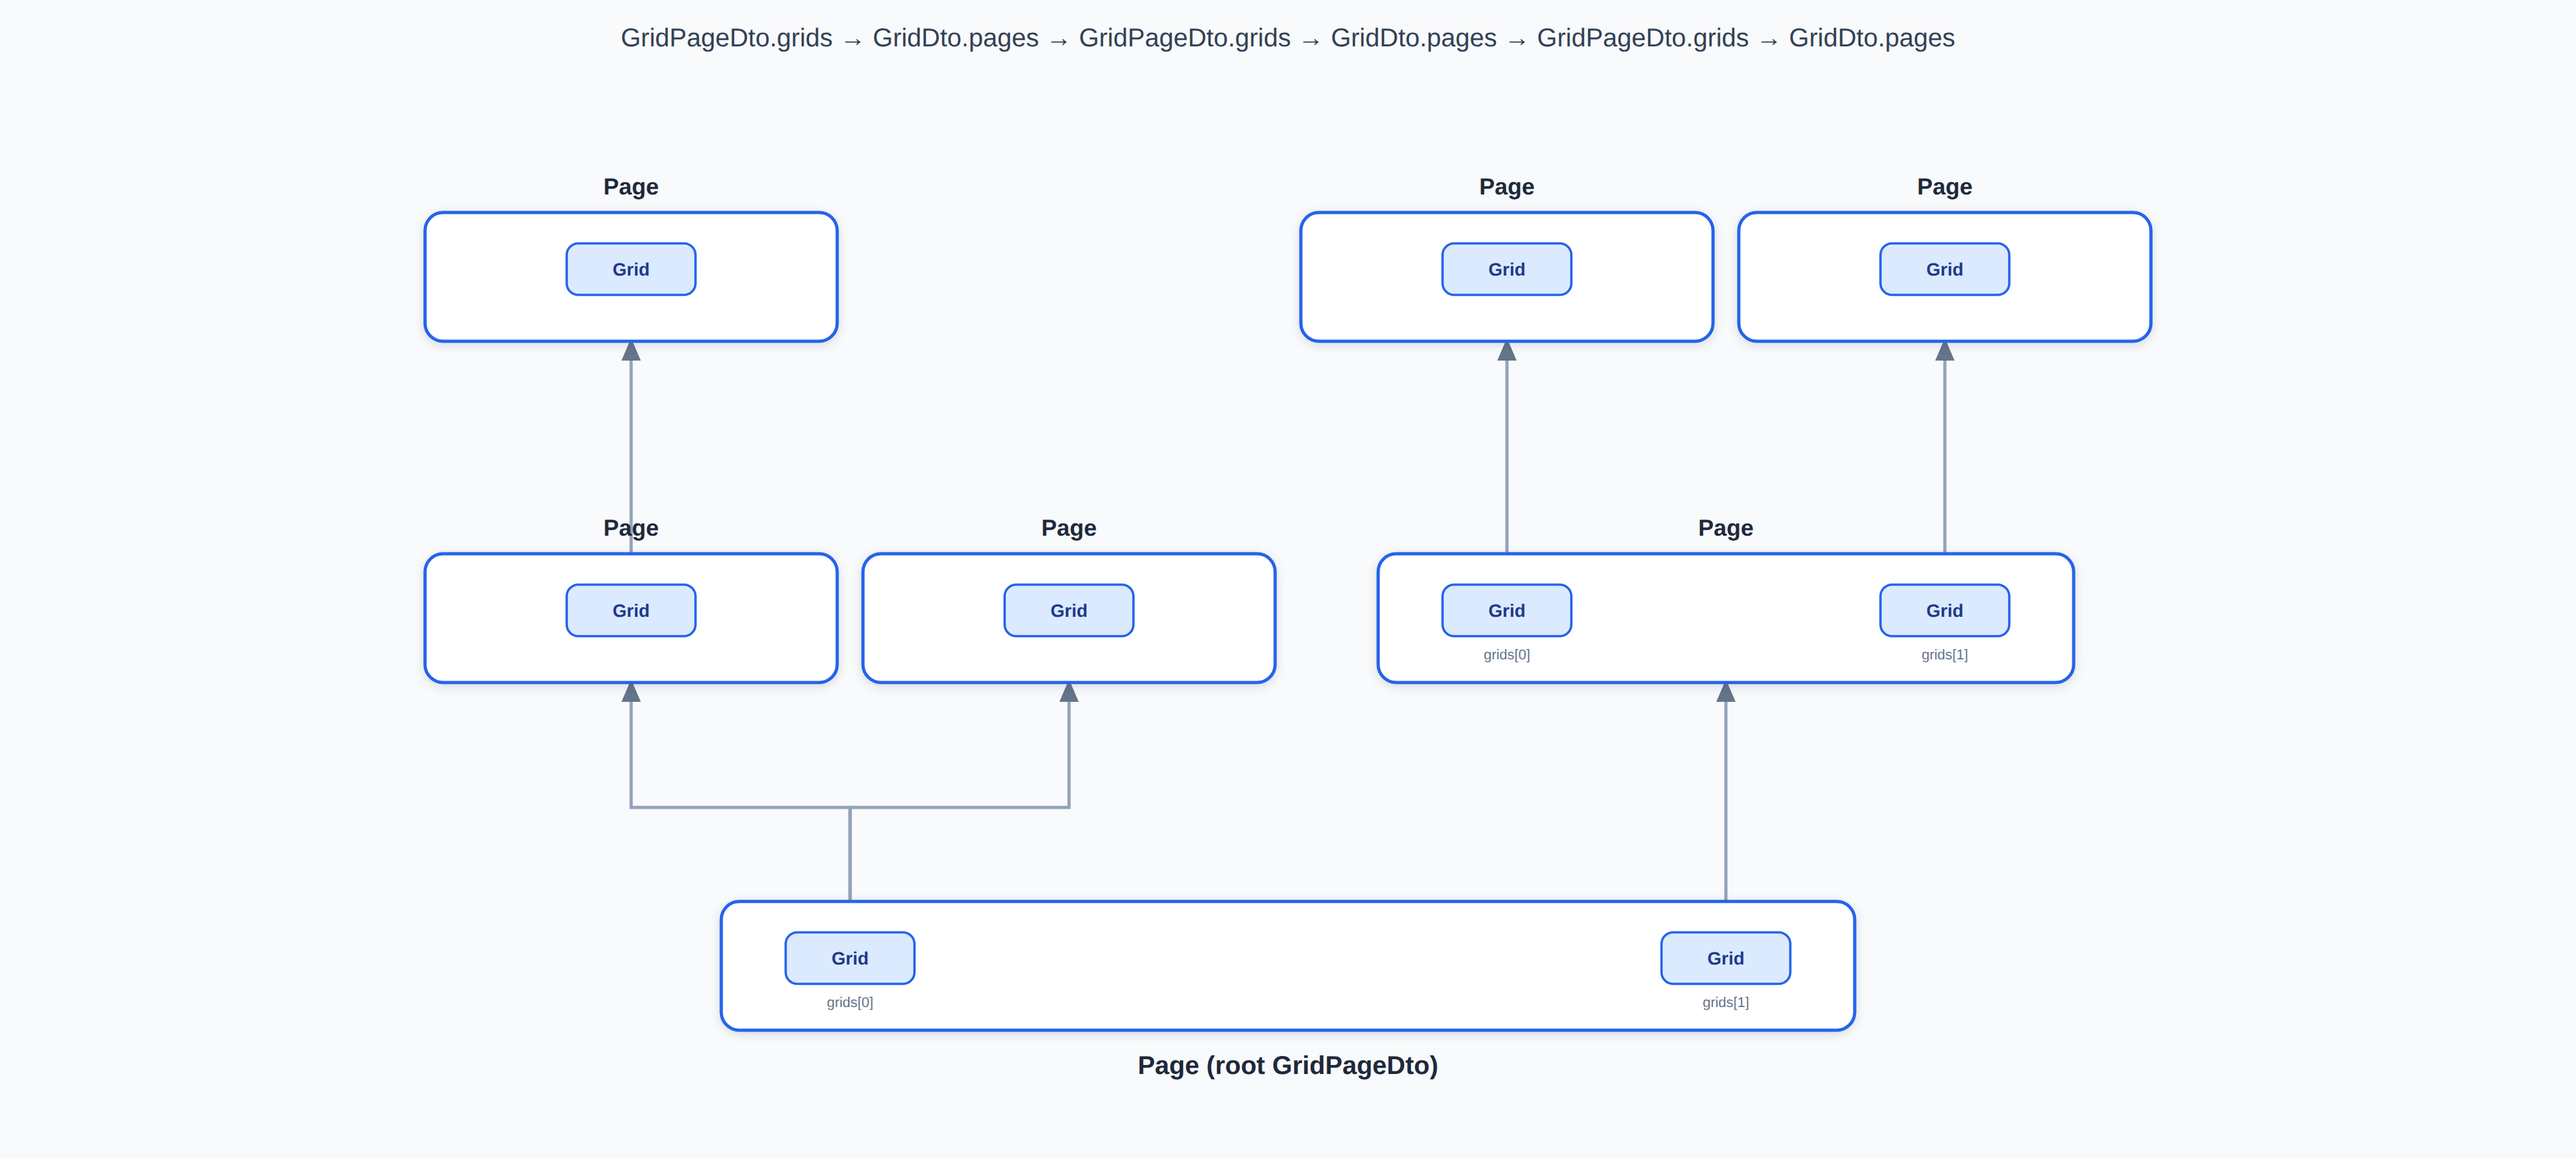
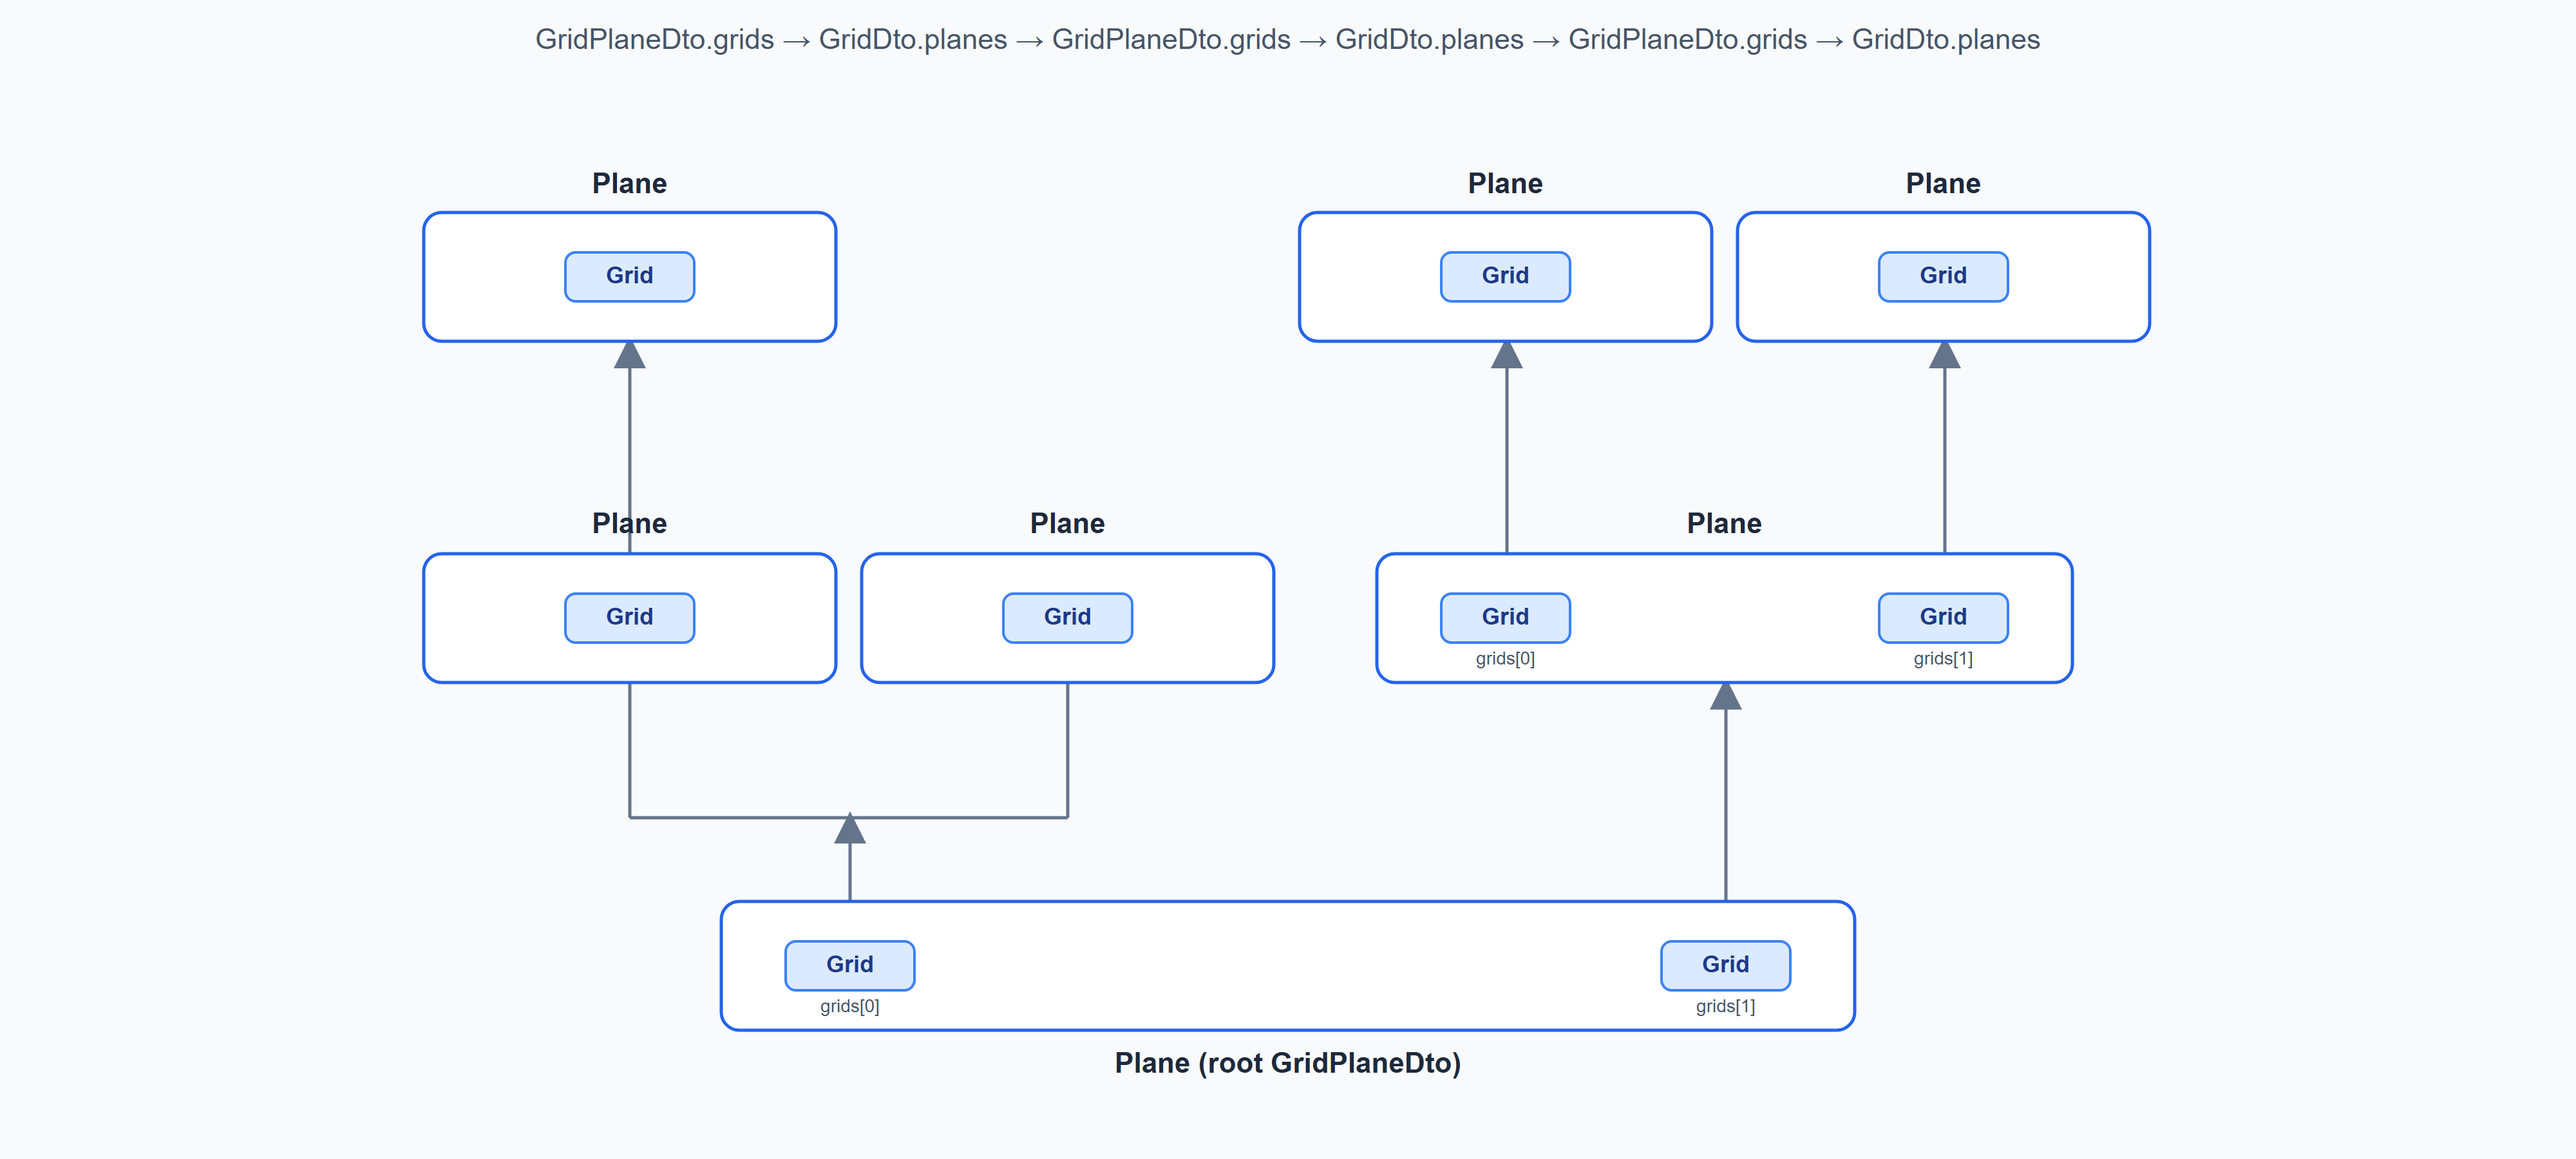
Plane

diff --git a/App.Server/util/util-main.ts b/App.Server/util/util-main.ts
@@ -1,7 +1,7 @@
 import { userSession } from './util-user.js';
 import { GridStateDto } from '../dto/web/grid-dto.js';
 
-export const VERSION_SERVER = '1.15';
+export const VERSION_SERVER = '1.16';
 
 export function domainName(request: Request): string {
   const originHeader = request.headers.get('origin');

diff --git a/App.Web/src/util/util-main.ts b/App.Web/src/util/util-main.ts
@@ -1,1 +1,1 @@
-export const VERSION_CLIENT = '1.15';
+export const VERSION_CLIENT = '1.16';
